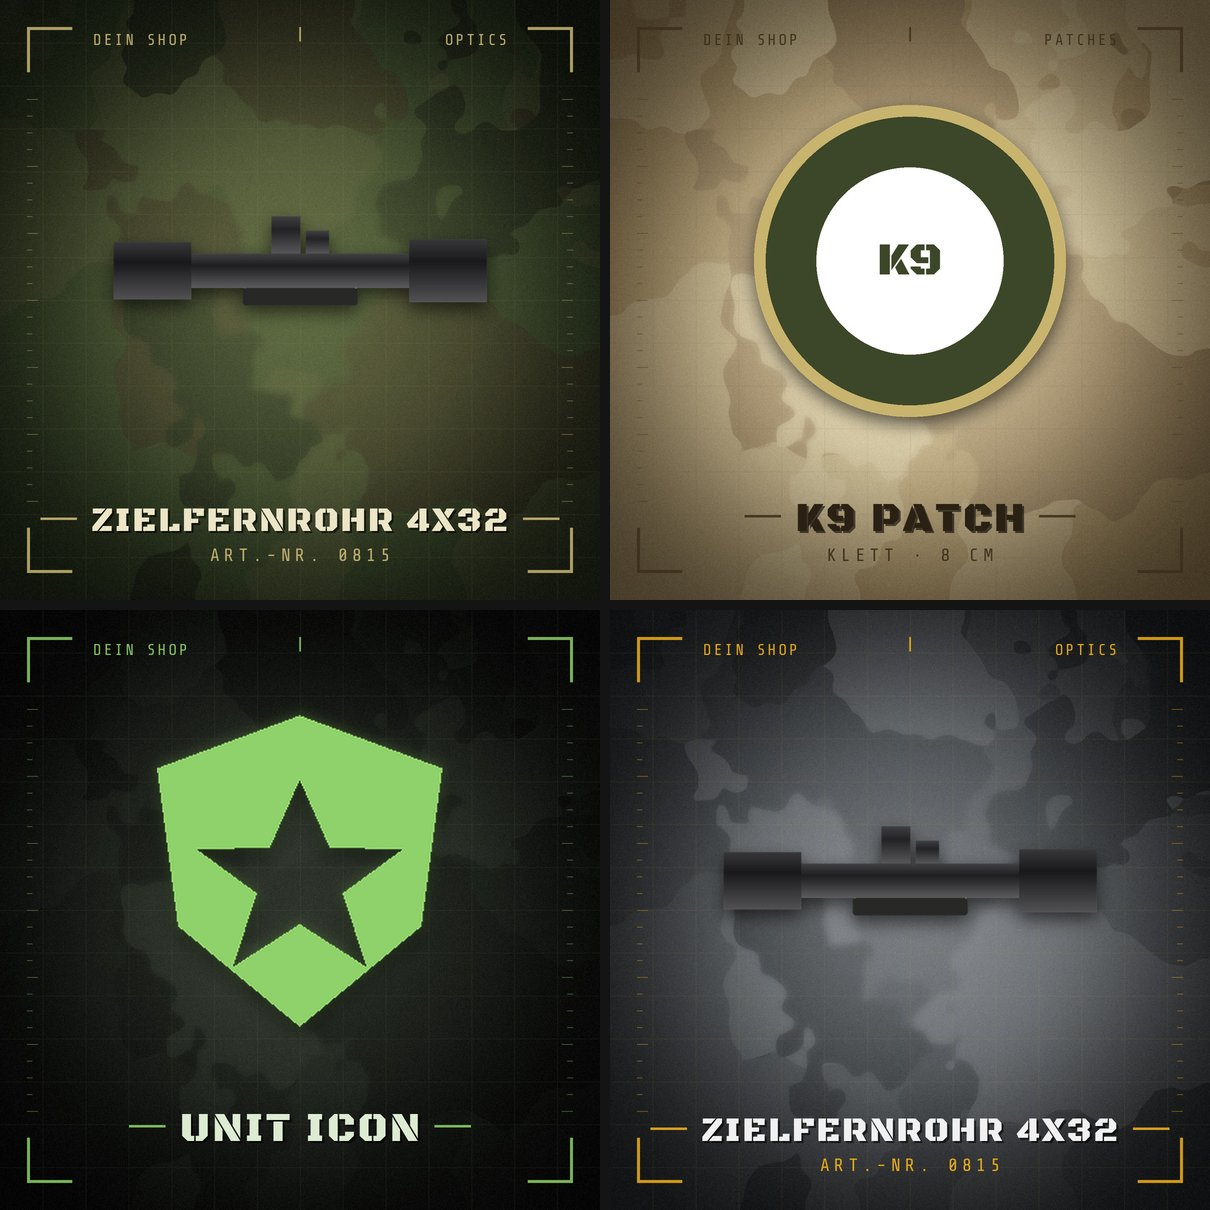
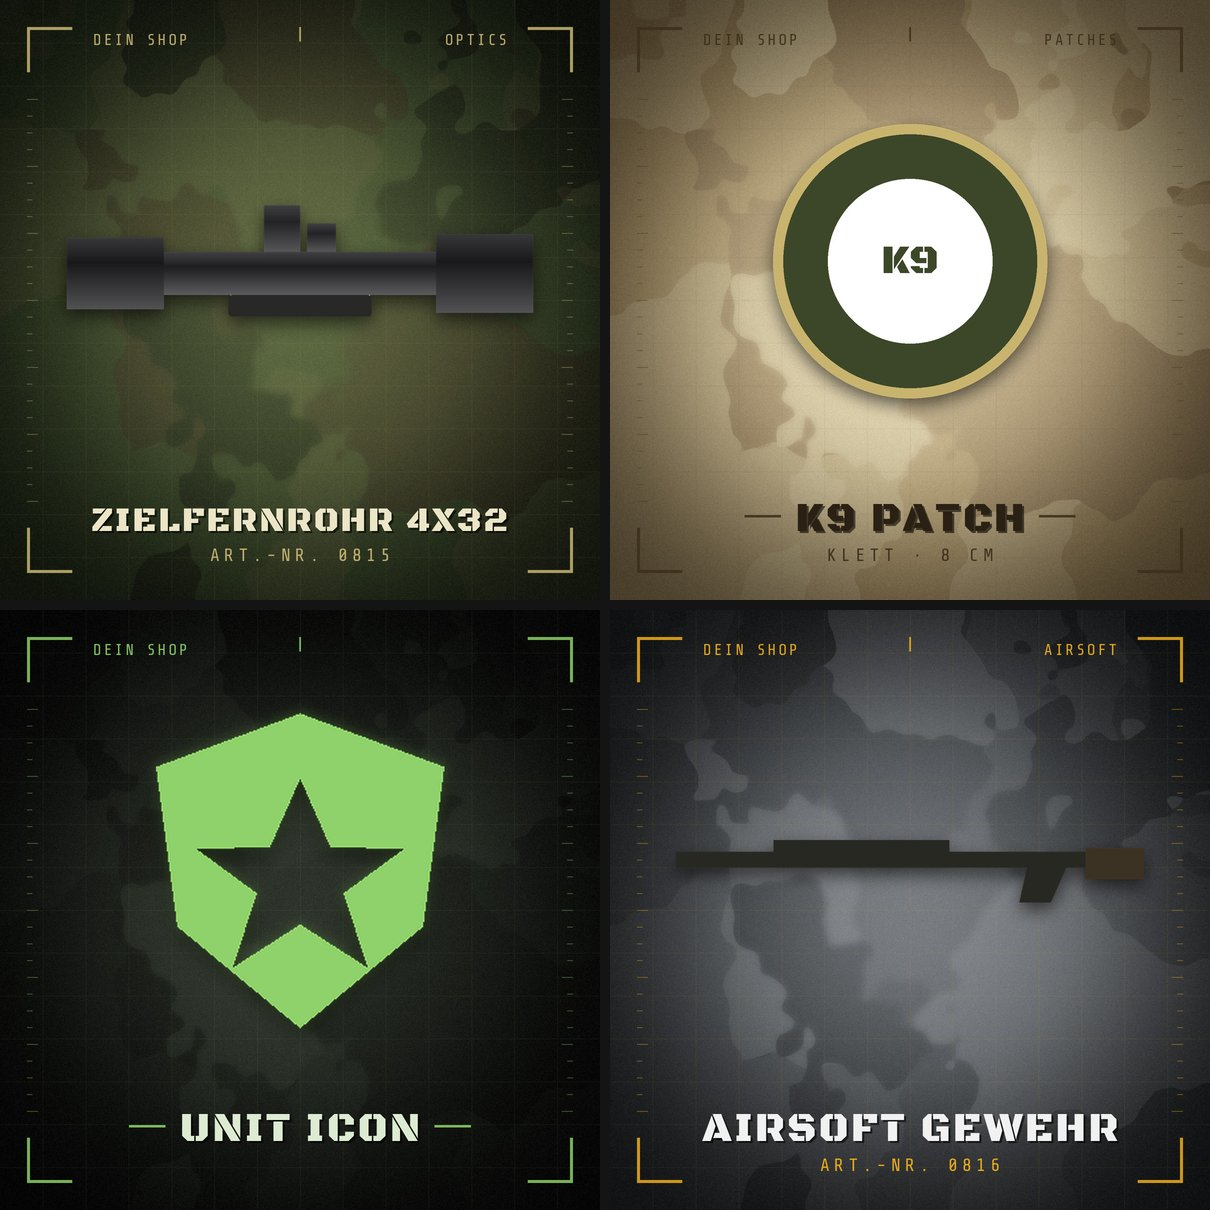
Scale products automatically so they look equally large
Fitting every motif into the same box made long items (scopes, rifles,
knives) look tiny next to compact ones: the visible area ranged from
about 2% to 31% of the image. With auto_scale (new default) each motif
gets the same optical area – bounding-box area weighted by coverage –
capped at the product area, so long/tall items grow up to the frame,
compact ones shrink a little and airy icons get slightly larger
(range now about 3% to 24%). `scale` still controls the overall size;
--no-auto-scale / "auto_scale": false restores the old fitting.

Bump version to 1.1.0.

Claude-Session: https://claude.ai/code/session_01KPqT2mmzHV6g5st83m1fL9

diff --git a/productcon/compose.py b/productcon/compose.py
@@ -4,6 +4,7 @@ from __future__ import annotations
 
 from dataclasses import dataclass
 
+import numpy as np
 from PIL import Image, ImageDraw, ImageFilter
 
 from .config import Settings
@@ -36,9 +37,40 @@ def product_area(settings: Settings, has_text: bool) -> Box:
     return Box(inset, inset, w - inset, bottom)
 
 
-def fit_product(product: Image.Image, box: Box, scale: float) -> Image.Image:
-    max_w, max_h = box.width * scale, box.height * scale
-    factor = min(max_w / product.width, max_h / product.height)
+# Automatische Skalierung: Bezugsgröße ist ein kompaktes, quadratisches Produkt
+# (z.B. ein runder Patch) mit dieser Deckung ...
+REFERENCE_COVERAGE = 0.8
+# ... das etwas kleiner als "scale" dargestellt wird, damit lange Produkte
+# (Gewehr, Messer, Zielfernrohr) im Vergleich größer werden können.
+REFERENCE_SIZE = 0.875
+
+
+def coverage(product: Image.Image) -> float:
+    """Anteil der sichtbaren Pixel im Rahmen des Motivs (0..1)."""
+    return float(np.asarray(product.getchannel("A"), dtype=np.float32).mean() / 255.0)
+
+
+def scale_factor(product: Image.Image, box: Box, scale: float, auto: bool = True) -> float:
+    """Vergrößerungsfaktor für das (zugeschnittene) Motiv.
+
+    auto=False: Motiv wird in scale × Produktfläche eingepasst – lange Produkte
+    wirken dadurch deutlich kleiner als kompakte.
+    auto=True: Alle Motive bekommen die gleiche optische Fläche (Rahmenfläche,
+    gewichtet mit der Deckung); lange Produkte dürfen dafür bis an den Rand der
+    Produktfläche wachsen, kompakte werden etwas kleiner.
+    """
+    w, h = product.size
+    fits = min(box.width / w, box.height / h)  # größter Faktor, der noch in die Fläche passt
+    if not auto:
+        return fits * scale
+    ref = min(box.width, box.height) * scale * REFERENCE_SIZE
+    density = min(1.0, max(0.15, coverage(product)))
+    factor = ref * np.sqrt(np.sqrt(REFERENCE_COVERAGE) / (w * h * np.sqrt(density)))
+    return float(min(factor, fits))
+
+
+def fit_product(product: Image.Image, box: Box, scale: float, auto: bool = True) -> Image.Image:
+    factor = scale_factor(product, box, scale, auto)
     size = (max(1, round(product.width * factor)), max(1, round(product.height * factor)))
     return product.resize(size, Image.Resampling.LANCZOS)
 
@@ -135,7 +167,7 @@ def compose(
     theme = get_theme(settings.theme)
 
     box = product_area(settings, bool(title or subtitle))
-    fitted = fit_product(product, box, settings.scale)
+    fitted = fit_product(product, box, settings.scale, settings.auto_scale)
     x = round(box.left + (box.width - fitted.width) / 2)
     y = round(box.top + (box.height - fitted.height) / 2)
     alpha = fitted.getchannel("A")

diff --git a/tests/test_productcon.py b/tests/test_productcon.py
@@ -204,3 +204,52 @@ def test_exe_mode_uses_folder_next_to_exe(tmp_path, monkeypatch):
     assert main(["--no-pause"]) == 0
     assert Image.open(app / "output" / "a.png").size == (300, 300)
     assert len(pauses) == 1  # --no-pause wartet nicht
+
+
+def _solid(w, h, hole=0):
+    img = Image.new("RGBA", (w, h), (40, 40, 40, 255))
+    if hole:
+        ImageDraw.Draw(img).rectangle((hole, hole, w - hole - 1, h - hole - 1), fill=(0, 0, 0, 0))
+    return img
+
+
+def _visible_area(img):
+    return float(np.asarray(img.getchannel("A"), dtype=np.float32).sum() / 255)
+
+
+def test_auto_scale_makes_long_and_compact_products_look_more_alike():
+    from productcon.compose import Box, fit_product
+
+    box = Box(0, 0, 1000, 1000)
+    square, long = _solid(400, 400), _solid(1000, 200)
+    old = [_visible_area(fit_product(p, box, 0.8, auto=False)) for p in (square, long)]
+    new = [_visible_area(fit_product(p, box, 0.8, auto=True)) for p in (square, long)]
+    assert old[0] / old[1] > 4.5            # vorher: Quadrat hat 5x so viel Fläche
+    assert new[0] / new[1] < old[0] / old[1] * 0.6
+    assert fit_product(long, box, 0.8, auto=True).width > fit_product(long, box, 0.8, auto=False).width
+    assert fit_product(square, box, 0.8, auto=True).width < fit_product(square, box, 0.8, auto=False).width
+
+
+def test_auto_scale_never_leaves_the_product_area():
+    from productcon.compose import Box, fit_product
+
+    box = Box(0, 0, 800, 500)
+    for w, h in ((5000, 100), (100, 5000), (300, 300), (8, 8)):
+        fitted = fit_product(_solid(w, h), box, 1.0, auto=True)
+        assert fitted.width <= 800 and fitted.height <= 500
+
+
+def test_auto_scale_enlarges_airy_motifs():
+    from productcon.compose import Box, fit_product
+
+    box = Box(0, 0, 1000, 1000)
+    solid = fit_product(_solid(300, 300), box, 0.8, auto=True)
+    ring = fit_product(_solid(300, 300, hole=40), box, 0.8, auto=True)  # Rahmen mit großem Loch
+    assert ring.width > solid.width
+
+
+def test_auto_scale_can_be_switched_off(workdir):
+    Settings(width=300, height=300, format="png", auto_scale=False).save(workdir / "cfg.json")
+    assert Settings.load(workdir / "cfg.json").auto_scale is False
+    assert main(["--no-auto-scale", "--save-config", str(workdir / "cli.json")]) == 0
+    assert json.loads((workdir / "cli.json").read_text(encoding="utf-8"))["auto_scale"] is False

diff --git a/productcon/cli.py b/productcon/cli.py
@@ -68,7 +68,9 @@ def build_parser() -> argparse.ArgumentParser:
     g.add_argument("--no-frame", dest="frame", action="store_false", help="Eckrahmen/Skalen ausblenden")
 
     g = p.add_argument_group("Motiv")
-    g.add_argument("--scale", type=float, help="Wie viel der Produktfläche das Motiv füllt, 0..1 (Standard: 0.8)")
+    g.add_argument("--scale", type=float, help="Grundgröße des Motivs, Anteil der Produktfläche 0..1 (Standard: 0.8)")
+    g.add_argument("--no-auto-scale", dest="auto_scale", action="store_false",
+                   help="Motiv nur einpassen, statt alle Produkte gleich groß wirken zu lassen")
     g.add_argument("--remove-bg", choices=REMOVE_BG_MODES, help="Hintergrund entfernen: auto (Standard), on, off, ai")
     g.add_argument("--tolerance", type=int, help="Toleranz für einfarbige Hintergründe (Standard: 40)")
     g.add_argument("--tint", help="Motiv einfarbig einfärben, z.B. \"#c9b877\" (für Icons)")
@@ -106,7 +108,7 @@ def resolve_settings(args: argparse.Namespace) -> Settings:
         settings = Settings.load(config)
 
     overrides = {}
-    for key in ("theme", "background", "seed", "camo_strength", "grid", "frame", "scale", "remove_bg",
+    for key in ("theme", "background", "seed", "camo_strength", "grid", "frame", "scale", "auto_scale", "remove_bg",
                 "tolerance", "tint", "shadow", "glow", "title", "subtitle", "brand", "tag", "title_font",
                 "format", "quality"):
         if hasattr(args, key):

diff --git a/productcon/config.py b/productcon/config.py
@@ -27,7 +27,8 @@ class Settings:
     frame: bool = True
 
     # Produkt
-    scale: float = 0.8              # Anteil der Produktfläche, den das Motiv füllt
+    scale: float = 0.8              # Grundgröße des Motivs, Anteil der Produktfläche (0..1)
+    auto_scale: bool = True         # alle Motive gleich groß wirken lassen (lange größer, kompakte kleiner)
     remove_bg: str = "auto"         # auto | on | off | ai
     tolerance: int = 40             # Farbabstand für die Hintergrund-Erkennung
     tint: str | None = None         # Icons einfärben, z.B. "#c9b877"

diff --git a/productcon/__init__.py b/productcon/__init__.py
@@ -1,6 +1,6 @@
 """ProductCon – einheitliche Produktbilder auf Military-Hintergrund."""
 
-__version__ = "1.0.0"
+__version__ = "1.1.0"
 
 from .background import render_background  # noqa: E402
 from .compose import compose  # noqa: E402

diff --git a/README.md b/README.md
@@ -13,8 +13,10 @@ Eckrahmen, optional Titel und Shopname).
    einfarbigem Hintergrund (z.B. weiß) wird dieser automatisch entfernt. Weiße Flächen
    *im* Produkt bleiben erhalten, und an den Kanten entsteht kein heller Saum.
 2. **Zuschneiden** – leere Ränder werden abgeschnitten.
-3. **Einpassen** – das Motiv wird immer in die gleiche Fläche eingepasst und zentriert,
-   egal wie groß das Original ist (16-px-Icon oder 6000-px-Foto).
+3. **Automatische Skalierung** – jedes Motiv wird so skaliert, dass alle Produkte gleich
+   groß wirken, egal wie groß das Original ist (16-px-Icon oder 6000-px-Foto) und egal
+   welche Form es hat: Lange Produkte (Gewehr, Messer, Zielfernrohr) werden größer,
+   kompakte (Patch, Rucksack) etwas kleiner. Danach wird es zentriert.
 4. **Hintergrund** – immer derselbe (gleicher Seed = pixelgleiches Tarnmuster),
    inkl. Schlagschatten unter dem Motiv.
 5. **Texte** (optional) – Titel in Stencil-Schrift, Untertitel, Shopname oben links,
@@ -125,7 +127,8 @@ python -m productcon --theme night --brand "Mein Shop" --title "{name}" --save-c
 | `seed`           | `1337`     | Variante des Tarnmusters |
 | `camo_strength`  | `0.55`     | Stärke des Tarnmusters (0 = nur Verlauf) |
 | `grid`, `frame`  | `true`     | Raster bzw. Eckrahmen/Skalen anzeigen |
-| `scale`          | `0.8`      | Wie viel der Produktfläche das Motiv ausfüllt (0–1) |
+| `scale`          | `0.8`      | Grundgröße des Motivs als Anteil der Produktfläche (0–1) |
+| `auto_scale`     | `true`     | Alle Produkte gleich groß wirken lassen (siehe unten); `false` = nur einpassen |
 | `remove_bg`      | `auto`     | Hintergrund entfernen: `auto`, `on`, `off`, `ai` (siehe unten) |
 | `tolerance`      | `40`       | Wie stark Pixel von der Hintergrundfarbe abweichen dürfen |
 | `tint`           | `null`     | Motiv einfarbig einfärben, z.B. `"#c9b877"` (für Icons) |
@@ -139,6 +142,19 @@ python -m productcon --theme night --brand "Mein Shop" --title "{name}" --save-c
 | `title_font`     | `null`     | Eigene `.ttf`/`.otf` für den Titel |
 | `format`         | `jpg`      | `jpg`, `png` oder `webp` |
 | `quality`        | `92`       | Qualität für jpg/webp |
+
+## Automatische Skalierung
+
+Würde man jedes Motiv nur in dieselbe Fläche einpassen, wirkt ein langes Zielfernrohr
+winzig neben einem runden Patch – obwohl beide gleich breit sind. ProductCon gleicht das
+aus: Jedes Motiv bekommt die gleiche *optische Fläche* (Außenmaße, gewichtet mit der
+Deckung). Lange oder hohe Produkte dürfen dafür bis an den Rand der Produktfläche
+wachsen, kompakte werden etwas kleiner, luftige Motive (z.B. Icons mit Aussparungen)
+etwas größer.
+
+- `scale` bestimmt weiterhin die Gesamtgröße (größer/kleiner für alle Motive).
+- Ausschalten mit `--no-auto-scale` bzw. `"auto_scale": false` – dann wird jedes Motiv
+  nur in `scale` × Produktfläche eingepasst (Verhalten bis Version 1.0).
 
 ## Hintergrund entfernen (`--remove-bg`)
 
